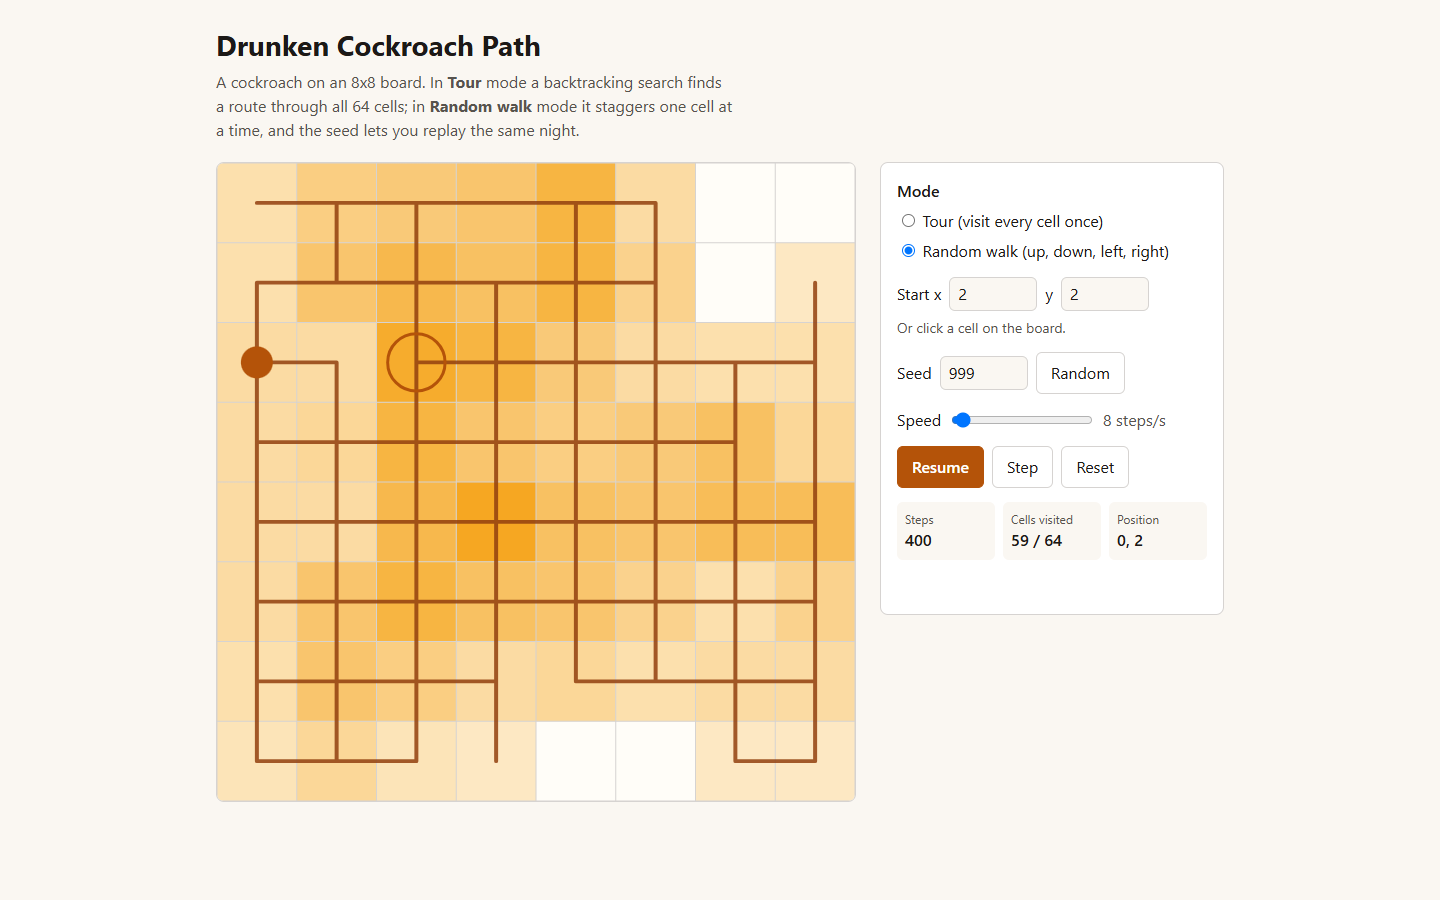
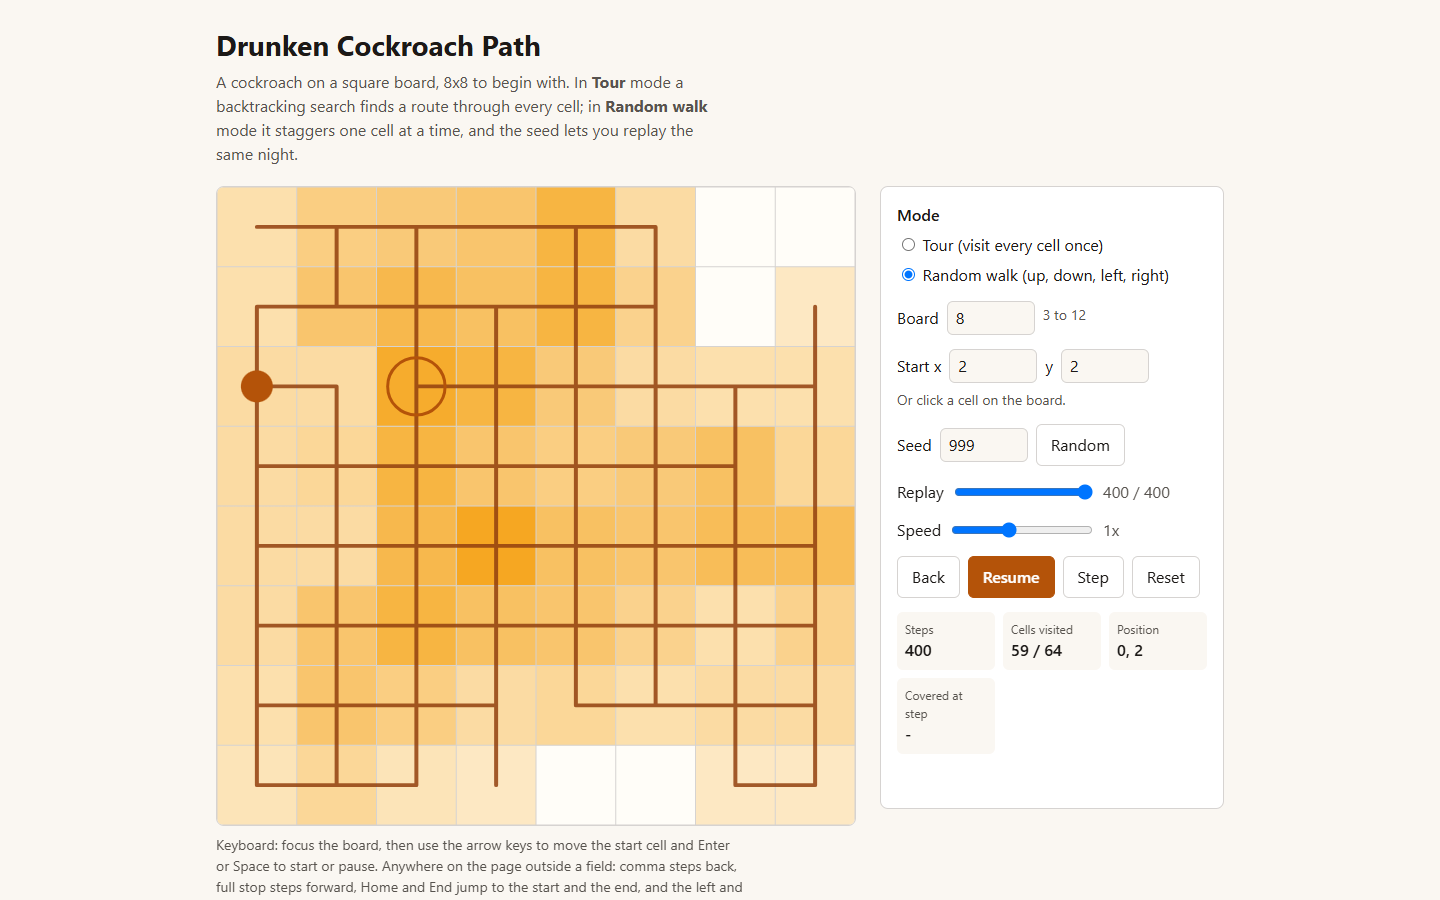
README: replay controls, retaken screenshots, limitations, date

diff --git a/README.md b/README.md
@@ -37,7 +37,7 @@
 
 <p align="center"><sub>The finished tour from start cell (3, 4), 63 steps. Open it live: <a href="https://drunken-cockroach-path.vercel.app/#mode=tour&x=3&y=4">/#mode=tour&x=3&y=4</a>, then press Start.</sub></p>
 
-<p align="center"><sub>Last updated: 2026-11-16 &middot; Live on a free tier (Vercel); no backend, no database</sub></p>
+<p align="center"><sub>Last updated: 2026-11-21 &middot; Live on a free tier (Vercel); no backend, no database</sub></p>
 
 ---
 
@@ -74,8 +74,9 @@ Things to try in the first two minutes:
 
 1. Press **Start** in Tour mode. The cockroach walks from cell (0, 0), numbering each tile; at 63 steps every tile is covered.
 2. Click any cell on the board to change the start, then press Start again. All 64 start cells work, including (7, 6), where the original program's move order never finishes (see [Design decisions](#design-decisions)).
-3. Switch to **Random walk**, drag **Speed** to 200 steps/s and watch the heat map fill in: darker tiles are visited more often.
+3. Switch to **Random walk**, set **Speed** to 8x and watch the heat map fill in: darker tiles are visited more often.
 4. Type a **Seed**, press Reset and Start, then Reset and Start again: the walk repeats exactly. Press **Random** for a new seed, or share the address bar, which carries the seed.
+5. After a run, drag **Replay** or press comma and full stop to step back and forward; the move list under the board follows and marks the current step.
 
 <table>
   <tr>
@@ -84,6 +85,9 @@ Things to try in the first two minutes:
   </tr>
   <tr>
     <td colspan="2"><img src="docs/images/cover-readout.png" alt="Random walk on 8x8 from cell 2,2 with seed 999 after covering every cell, with the cover-time experiment table for 5x5, 12x12 and 8x8 below"><p align="center"><sub>Cover-time experiment: the walk covered all 64 cells at its step counter, and 100 walks per board are tabulated below (2026-11-10)</sub></p></td>
+  </tr>
+  <tr>
+    <td colspan="2"><img src="docs/images/replay-controls.png" alt="Tour from cell 3,4 scrubbed back to step 30 of 63: the board shows 31 numbered cells, the Replay slider sits at 30 of 63, and the move list below has Step 30 in bold"><p align="center"><sub>Replay controls: the Replay slider, Back and Step buttons and a speed from 0.25x to 8x; the move list marks the step the board is on (2026-11-21)</sub></p></td>
   </tr>
   <tr>
     <td colspan="2"><img src="docs/images/keyboard-text.png" alt="Tour from cell 3,4 after 12 steps with the Text version of the board open, listing each move with a direction such as down-left or right"><p align="center"><sub>Keyboard and text alternative: the board takes arrow keys, and the disclosure below it lists the latest moves in words (2026-11-14)</sub></p></td>
@@ -101,11 +105,12 @@ Things to try in the first two minutes:
   - Cells shade by how often they have been visited.
   - A trail of the last 250 steps shows the recent route.
 - **Seeded and replayable**: a seed (0 to 4294967295) fixes every random choice, so a run can be repeated or shared as a link.
-- **Playback controls**: Start, Pause and Resume, a single Step, Reset, and a speed slider from 1 to 200 steps per second.
+- **Playback controls**: Start, Pause and Resume, Step, Back, Reset, and a speed from 0.25x to 8x (10 steps per second at 1x, so 2.5 to 80).
+- **Replay**: a slider seeks to any step that exists, Back and Step move one step, and Home and End jump to the start and the end. The tour is solved up front, so the slider covers all 63 steps at once; a walk is drawn from the seeded generator the first time the cursor reaches a step and kept, so going back and forward again shows the same walk. The cover step shows only once the replay has reached it.
 - **Live counters**: steps taken, cells visited out of the board's total, the current position, and the step at which a random walk first covered every cell.
 - **Move-ordering experiment (measured, not in the page)**: a small learned ordering of the search's next cell, fitted offline on solved tours of 4x4 to 7x7 boards, compared with Warnsdorff's rule and the original order on every start cell of 3x3 to 12x12 boards. Result, 2026-11-16: it matches Warnsdorff on the boards it trained on and is worse on larger ones (8x8: 49 of 64 start cells within the budget, against 63 for Warnsdorff; 12x12: 105 of 144 against 132), so the page keeps the original order with Warnsdorff as the fallback. Table and method: [docs/move-ordering-results.md](docs/move-ordering-results.md); regenerate with `npx tsx scripts/compare-orderings.ts`.
 - **Cover-time experiment**: one button runs 100 seeded walks (seeds counting up from the current one) from the current start on the current board and adds a row of min, median, mean and max steps to a history table, so boards can be compared. Measured 2026-11-10 from cell 0,0, seeds 1 to 100: median 27.5 steps on 3x3, 159 on 5x5, 684.5 on 8x8 and 1,976 on 12x12; 100 walks take 11 ms at 12x12.
-- **Keyboard and text alternative**: the board takes focus; the arrow keys move the start cell and Enter or Space starts or pauses. Its label states the mode, board, start, progress and position and updates as the run goes. A "Text version of the board" disclosure lists the latest 50 moves with a direction (up, down, left, right, or a pair such as down-left for the tour's diagonal steps).
+- **Keyboard and text alternative**: the board takes focus; the arrow keys move the start cell and Enter or Space starts or pauses. Outside form fields, comma and full stop step back and forward, Home and End jump to the start and end, and the square brackets change the speed. Its label states the mode, board, start, progress and position and updates as the run goes. A "Text version of the board" disclosure lists 50 moves around the current step (the latest 50 while the replay is at the end) with a direction (up, down, left, right, or a pair such as down-left for the tour's diagonal steps).
 - **Light and dark themes** that follow the system setting, a layout that works down to phone width, and labelled controls.
 
 ## Why it exists
@@ -137,18 +142,18 @@ sequenceDiagram
     User->>Main: Start
     loop every animation frame
         Main->>Main: steps owed = elapsed time x speed
-        Main->>Sim: step() for each owed step
+        Main->>Sim: step() for each owed step (the cursor moves; Back and the slider move it too)
         alt Tour
-            Sim->>Sim: reveal next cell of the solved path
+            Sim->>Sim: show the next cell of the solved path
         else Random walk
-            Sim->>Walk: randomStep(current, seeded generator)
+            Sim->>Walk: randomStep(last generated cell, seeded generator), only past the furthest step
             Walk-->>Sim: next cell
         end
         Main->>Draw: draw(canvas, simulation)
     end
 ```
 
-The speed slider sets steps per second, not steps per frame, so the pace is the same on a 60 Hz and a 144 Hz screen.
+The speed sets steps per second, not steps per frame, so the pace is the same on a 60 Hz and a 144 Hz screen.
 
 ### The two modes
 
@@ -204,7 +209,7 @@ vercel.json           build settings for the host
 
 | Area | What is in place |
 |---|---|
-| Tests | 43 unit tests in 5 files, all passing on 2026-11-16. The move-ordering tests check the features, that the weights file matches the training script, and that the learned order still returns real tours. They cover: a tour exists from all 64 starts and visits every cell once with legal moves; the 7,6 case under each move order; the generator (same seed same sequence, range); the random walk (reproducible, legal moves only, never leaves the board, works from a corner); the simulation (reveal, finish, replay, a tour of 3x3, 5x5 and 12x12 boards, a walk kept on a 4x4 board); the cover-time experiment; the canvas label and the text list of moves (direction words, diagonal tour moves, the 50-move cap). |
+| Tests | 60 unit tests in 6 files, all passing on 2026-11-21. The move-ordering tests check the features, that the weights file matches the training script, and that the learned order still returns real tours. They cover: a tour exists from all 64 starts and visits every cell once with legal moves; the 7,6 case under each move order; the generator (same seed same sequence, range); the random walk (reproducible, legal moves only, never leaves the board, works from a corner); the simulation (reveal, finish, replay, a tour of 3x3, 5x5 and 12x12 boards, a walk kept on a 4x4 board, the replay cursor: the step shown equals the solver move at every index, a walk unchanged after going back); the replay helpers (speeds, key map, move window); the cover-time experiment; the canvas label and the text list of moves (direction words, diagonal tour moves, the 50-move cap). |
 | Browser check | A Playwright script drove the production build and the live site in Chrome on 2026-10-17: tour to 63 steps from two starts, step button, seed replay (same seed same position after 400 steps, different seed different), click-to-set-start, no page errors, no horizontal scroll at 375 px. |
 | Lint and types | ESLint 9 and `tsc --noEmit` (strict) clean; both run in `npm run build` and `npm run check`. |
 | Dependencies | No runtime dependencies (the experiment scripts add `tsx` as a dev dependency). `npm audit`: 0 vulnerabilities on 2026-10-17. |
@@ -274,7 +279,8 @@ Free-tier limits a visitor notices (checked 2026-10-17): none; it is static file
 - The learned move ordering is a negative result from one linear model with five features and one training recipe tried twice (2026-11-16); a richer model or other features might do better, and it was not tried. The page does not use it.
 - Tour mode ignores the seed: the search is deterministic, so there is one route per start cell.
 - The cover-time figures come from 100 consecutive seeds per board (2026-11-10); they describe those seeds, not a proven expectation, and the experiment history is kept only until the page is reloaded.
-- The text version lists only the latest 50 moves, so the start of a long walk is not in the list.
+- The text version lists 50 moves at a time, around the current step, so the whole of a long walk is not in the list at once; the Replay slider reaches every step.
+- The top speed is 80 steps per second; before 2026-11-21 the slider went to 200. A walk has no steps to jump to beyond the furthest one reached, so its slider ends there.
 - The page was checked in Chrome only. axe-core found 0 violations on the live page on 2026-11-14, with the text version open and closed; that is an automated check, not a screen-reader test, and no Lighthouse run has been recorded.
 
 **Planned**
@@ -284,6 +290,7 @@ Free-tier limits a visitor notices (checked 2026-10-17): none; it is static file
 - [x] A "steps until every cell is covered" readout and a cover-time experiment for the random walk (2026-11-10).
 - [x] Keyboard control and a text version of the board (2026-11-14).
 - [x] Learned move ordering compared with Warnsdorff: measured, did not win (2026-11-16).
+- [x] Replay controls: step back and forward, a scrubber and a 0.25x to 8x speed (2026-11-21).
 - [ ] Measure Lighthouse performance and accessibility and record the numbers here.
 
 ## Credits
